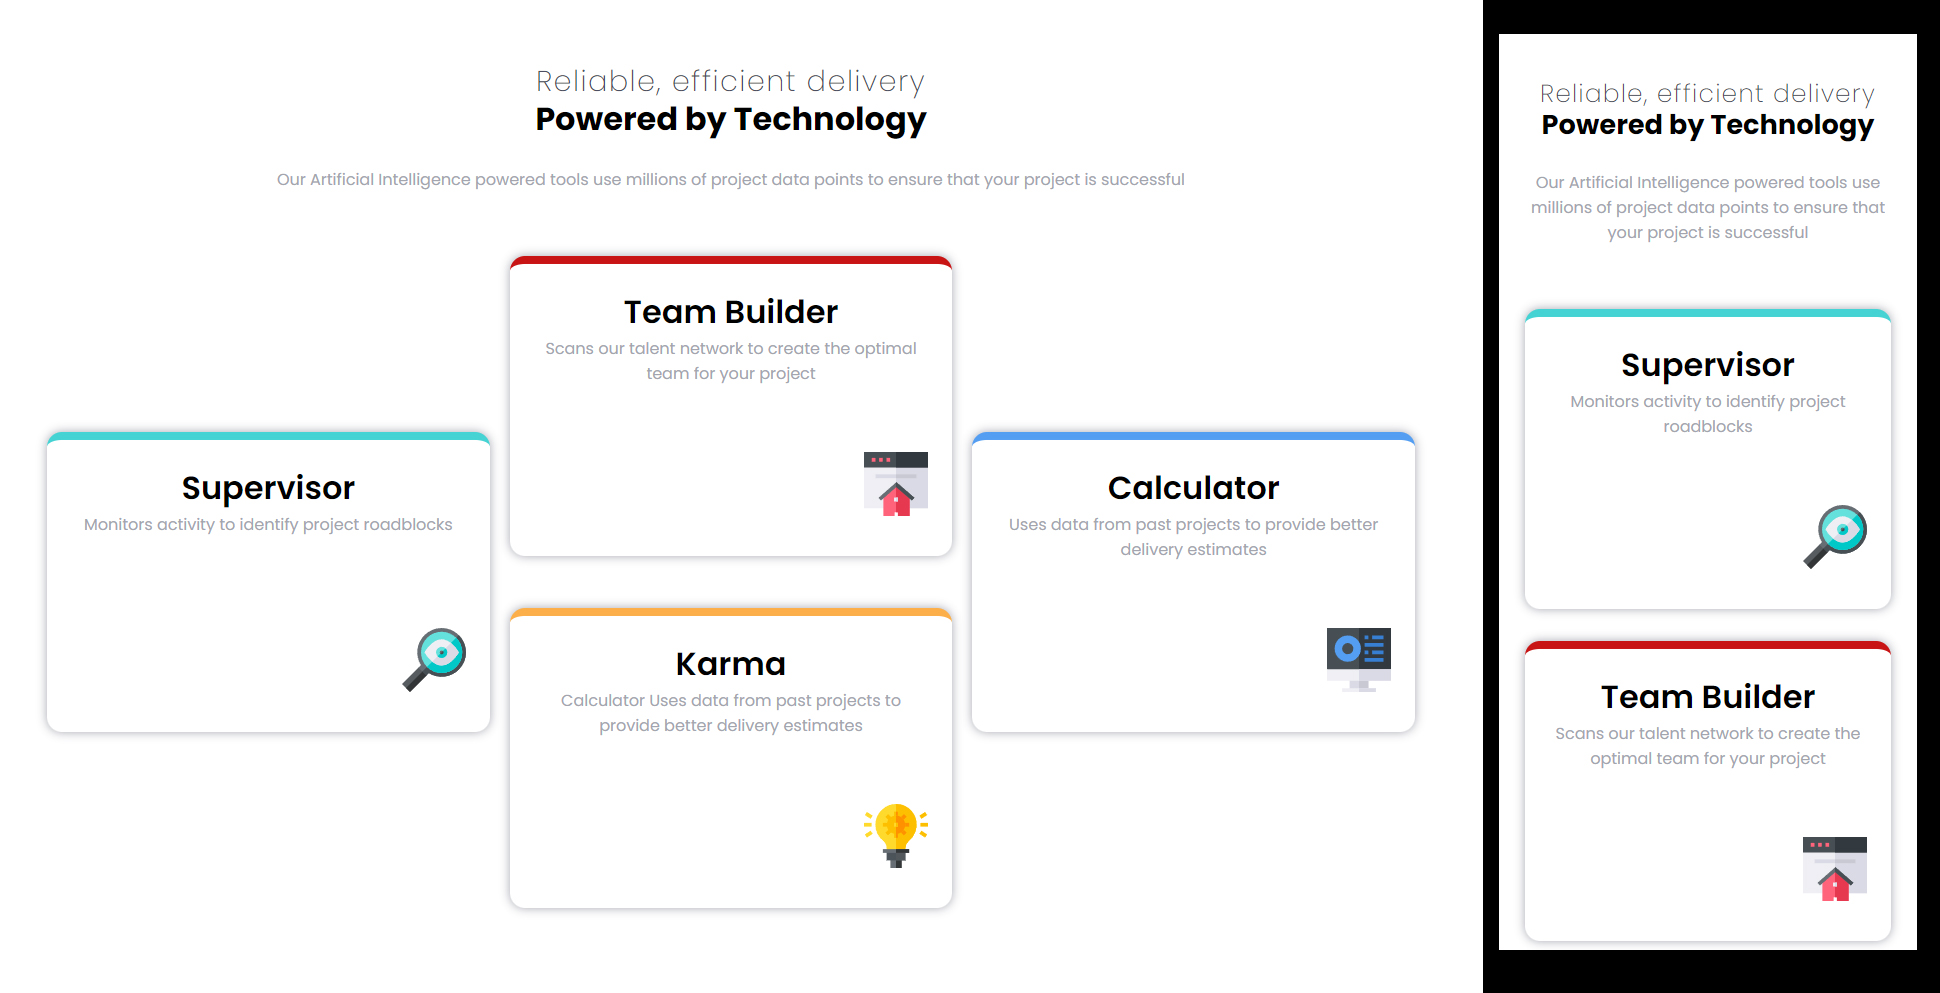
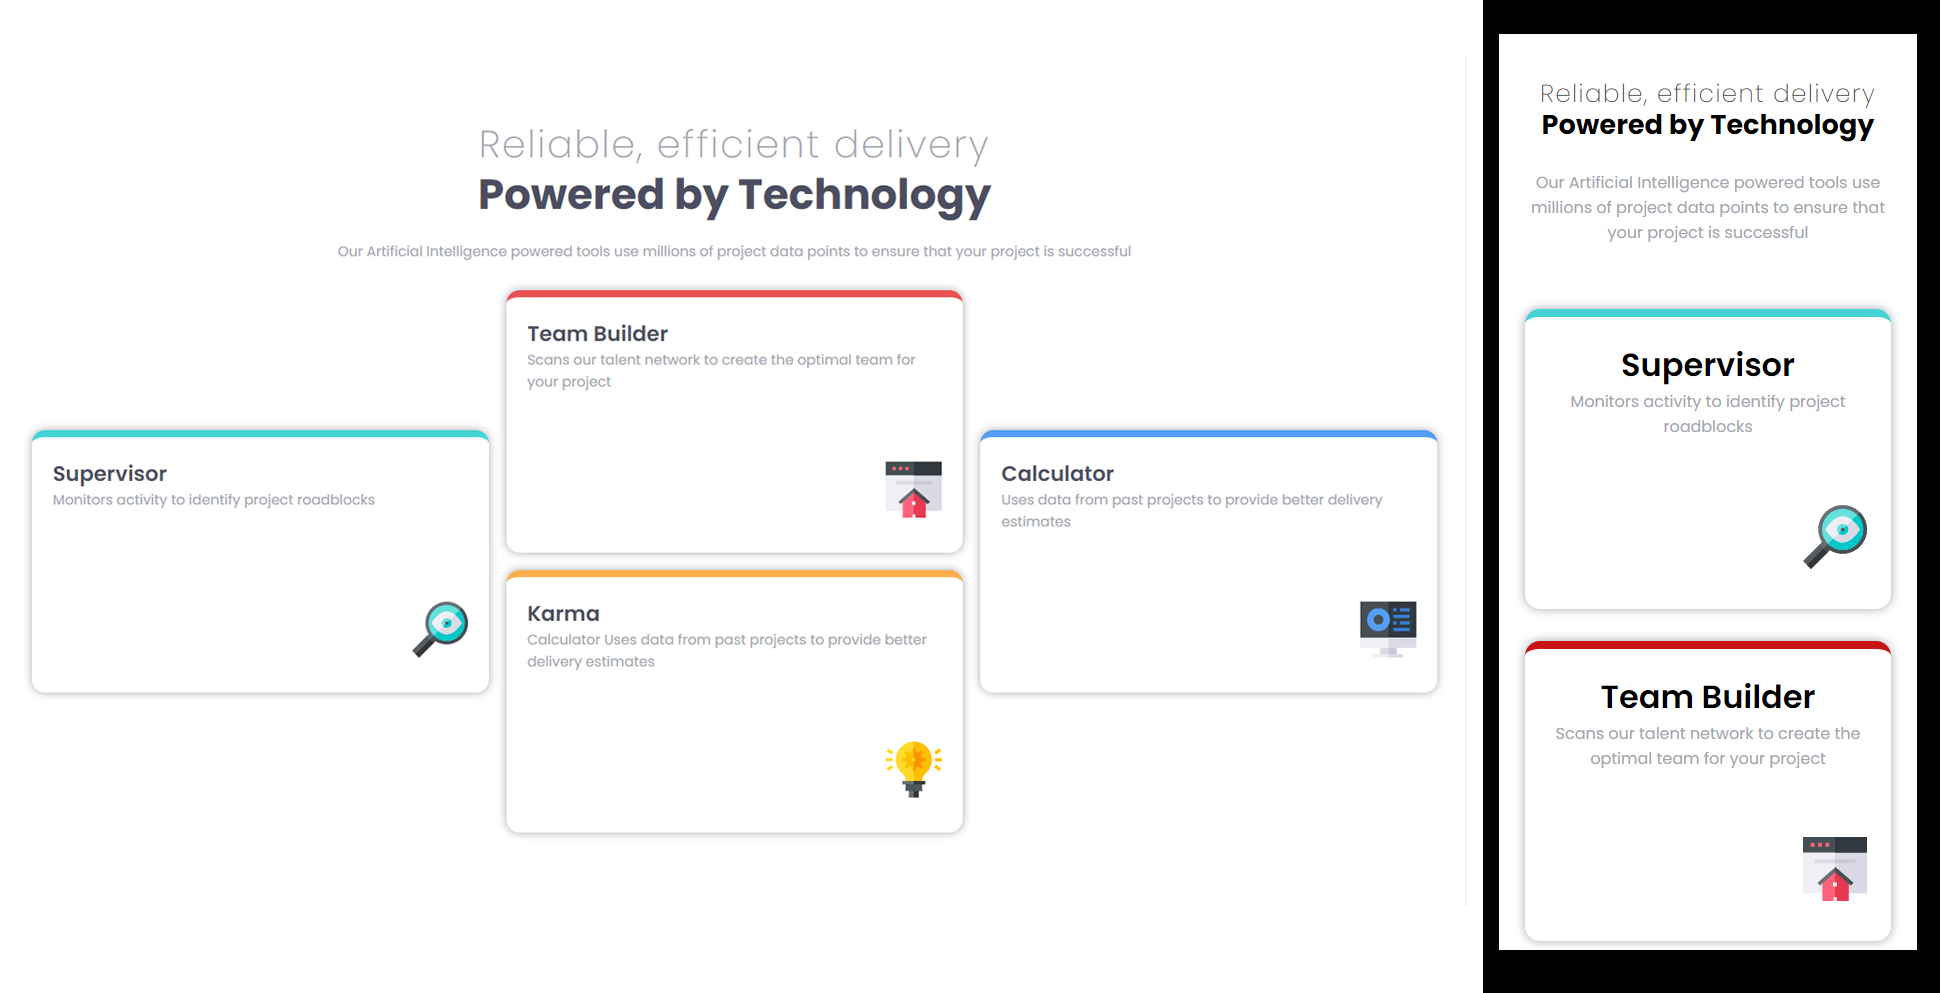
fix screenshot

diff --git a/css/styles.css b/css/styles.css
@@ -113,6 +113,16 @@ main {
   justify-content: right;
 }
 
+.attribution {
+  text-align: center;
+  margin-bottom: 2rem; /* Keeps the footer at the bottom but only after all other content */
+}
+
+.attribution a {
+  color: hsl(228, 45%, 44%);
+  text-decoration: none;
+}
+
 @media (min-width: 450px) {
   .gridContainer {
     grid-template-columns: 1fr 1fr 1fr;
@@ -124,6 +134,9 @@ main {
   }
   h2 {
     font-size: 2.7em;
+  }
+  .card {
+    margin-bottom: 0rem;
   }
   .card:nth-child(1) {
     grid-column: 1;

diff --git a/sass/styles.scss b/sass/styles.scss
@@ -182,6 +182,7 @@ main {
     font-size: 2.7em;
   }
   .card {
+    margin-bottom: 0rem;
     // Supervisor card takes the first column and spans two rows
     &:nth-child(1) {
       grid-column: 1;
